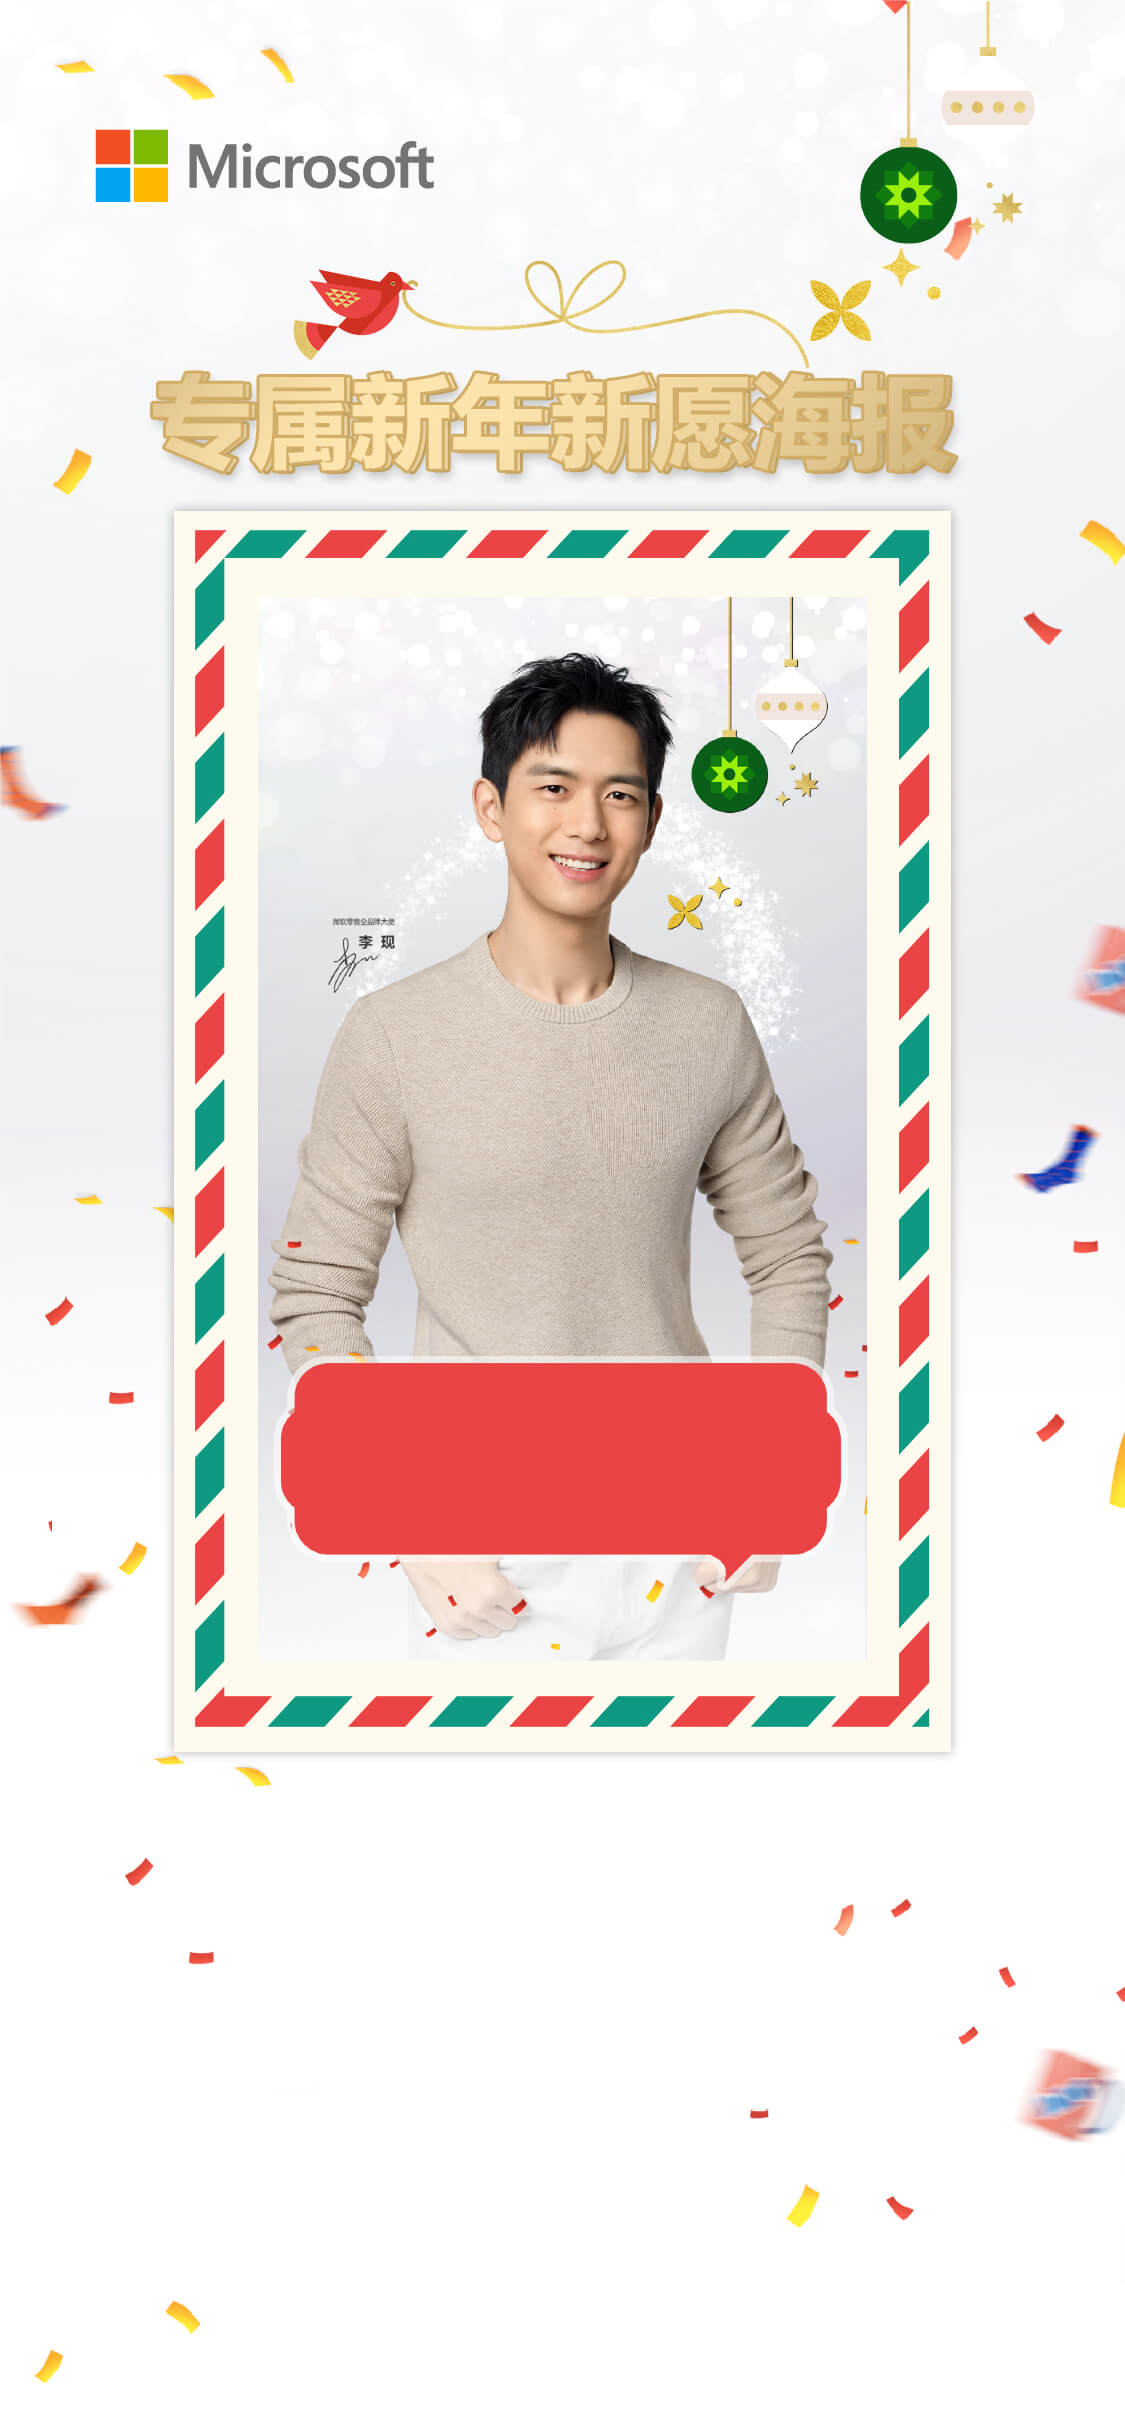
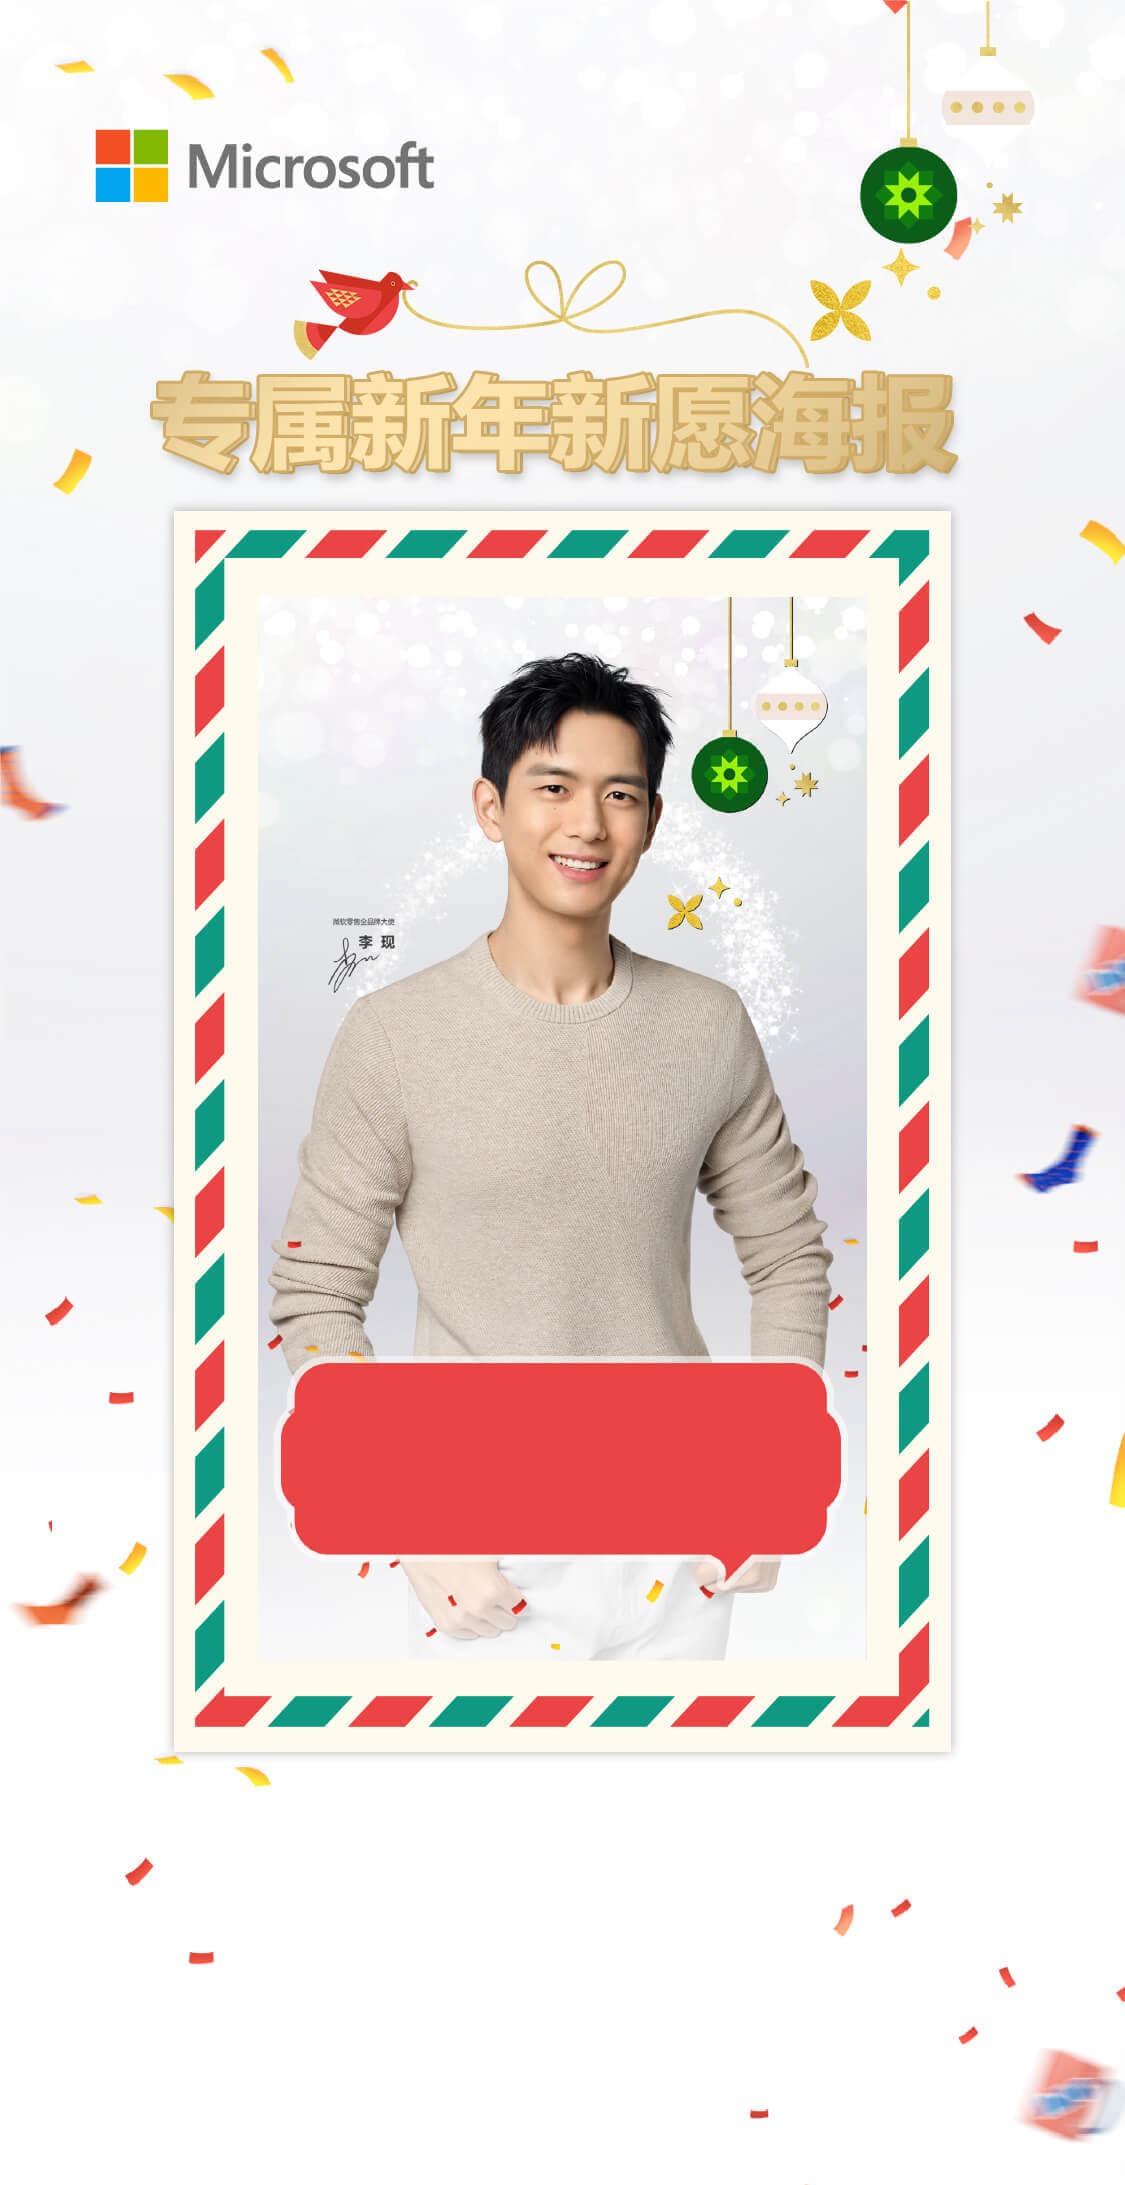
eeee

diff --git a/app/Http/Controllers/Activity.php b/app/Http/Controllers/Activity.php
@@ -1022,7 +1022,7 @@ class Activity extends Controller
 //        $range = 'new' . time() . rand(10000, 99999);
         $newimageName = $range. 'X.jpg';
         $newpath = 'images/' . $newimageName;
-        $face_img = $image::make($path)->resize(1125, 2436);
+        $face_img = $image::make($path)->resize(1125, 2185);
         $face_img->text($flag_info, 315, 1435, function ($font) use ($path) {
             $font->file(public_path('SIMLI.TTF', 777, true));
             $font->size(69);
@@ -1144,6 +1144,8 @@ class Activity extends Controller
     }
 
     public function wxs(){
+        $flag_info="哈哈哈哈你吃饭了吗";
+        $this->flagX($flag_info,33);
         echo 'share';
         return view('wxs');
     }
